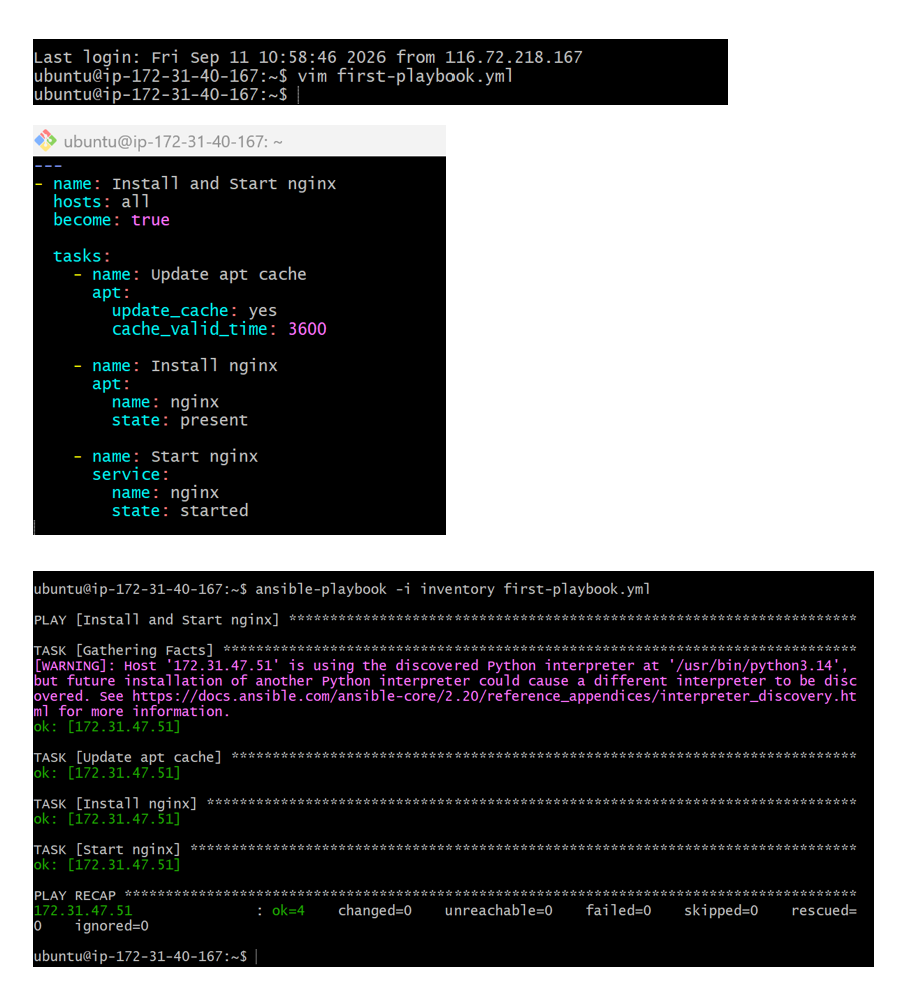
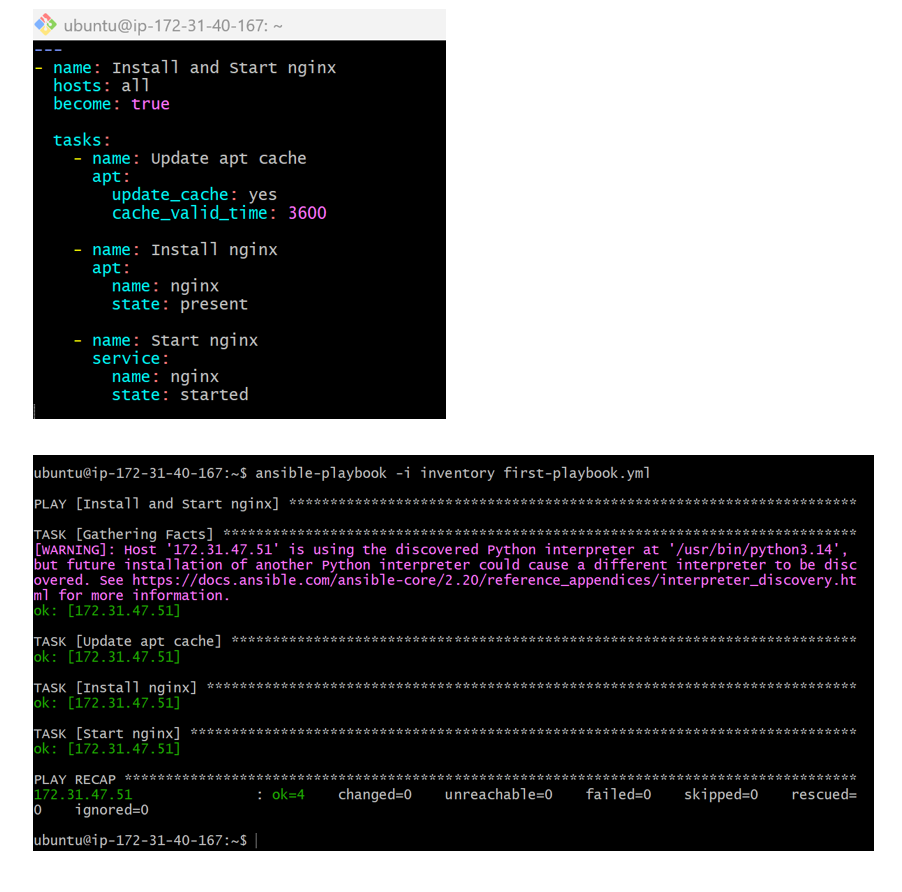
Add Ansible automation project updated

Changed region(s): [[0.031, 0.0, 0.9933, 0.9686]]

diff --git a/README.md b/README.md
@@ -4,7 +4,7 @@
 
 This project demonstrates server automation using **Ansible** with two Ubuntu AWS EC2 instances.
 
-One EC2 instance is configured as the **Ansible Control Server**, while the second EC2 instance is used as the **Target Server**.
+One EC2 instance is configured as the **Ansible Control Server**, while the second EC2 instance is used as the **Target_ubuntu_Server**.
 
 The project focuses on establishing passwordless SSH authentication, executing Ansible ad-hoc commands, creating Ansible playbooks, deploying Nginx, and initializing an Ansible role using Ansible Galaxy.
 
@@ -70,7 +70,7 @@ This server was used as the **Ansible Control Server**.
 The second EC2 instance was named:
 
 ```text
-target-server-ansible
+target-ubuntu_server
 ```
 
 This server was used as the **Target Server** where Ansible tasks were executed.
@@ -141,7 +141,7 @@ From the Ansible server, the target server was accessed using SSH.
 Example:
 
 ```bash
-ssh <TARGET-PRIVATE-IP>
+ssh 172.31.33.175
 ```
 
 This established SSH connectivity between the Ansible Control Server and the Target Server.
@@ -158,6 +158,7 @@ An ad-hoc command was used to create a file on the target server.
 This demonstrated how Ansible can execute tasks remotely without requiring a complete playbook.
 
 ![Ansible Ad-Hoc Command](screenshots/07-adhoc-command.png)
+![File Created on Target Server](screenshots/08-file-created.png)
 ---
 
 # 📄 8. Create an Ansible Playbook
@@ -167,7 +168,9 @@ After working with ad-hoc commands, the project moved to the concept of **Ansibl
 A playbook was created to automate the installation and execution of Nginx on the target server.
 
 The playbook defines the tasks that Ansible performs on the target machine.
-![File Created on Target Server](screenshots/08-file-created.png)
+
+![File Created on Target Server](screenshots/18-file-created.png)
+
 
 ---
 
@@ -201,11 +204,11 @@ The following command was used:
 ```bash
 ansible-galaxy role init Kubernetes
 ```
-![Ansible Galaxy Role Initialization](screenshots/10-ansible-galaxy.png)
+![Ansible Galaxy Role Initialization](screenshots/11-ansible-galaxy.png)
 
 This generated the standard directory structure required for an Ansible role.
 
-![Kubernetes Ansible Role Structure](screenshots/11-kubernetes-role.png)
+![Kubernetes Ansible Role Structure](screenshots/12-kubernetes-role.png)
 
 > The Kubernetes role was initialized as part of learning and working with Ansible Roles. Kubernetes itself was not deployed as part of this project.
 
